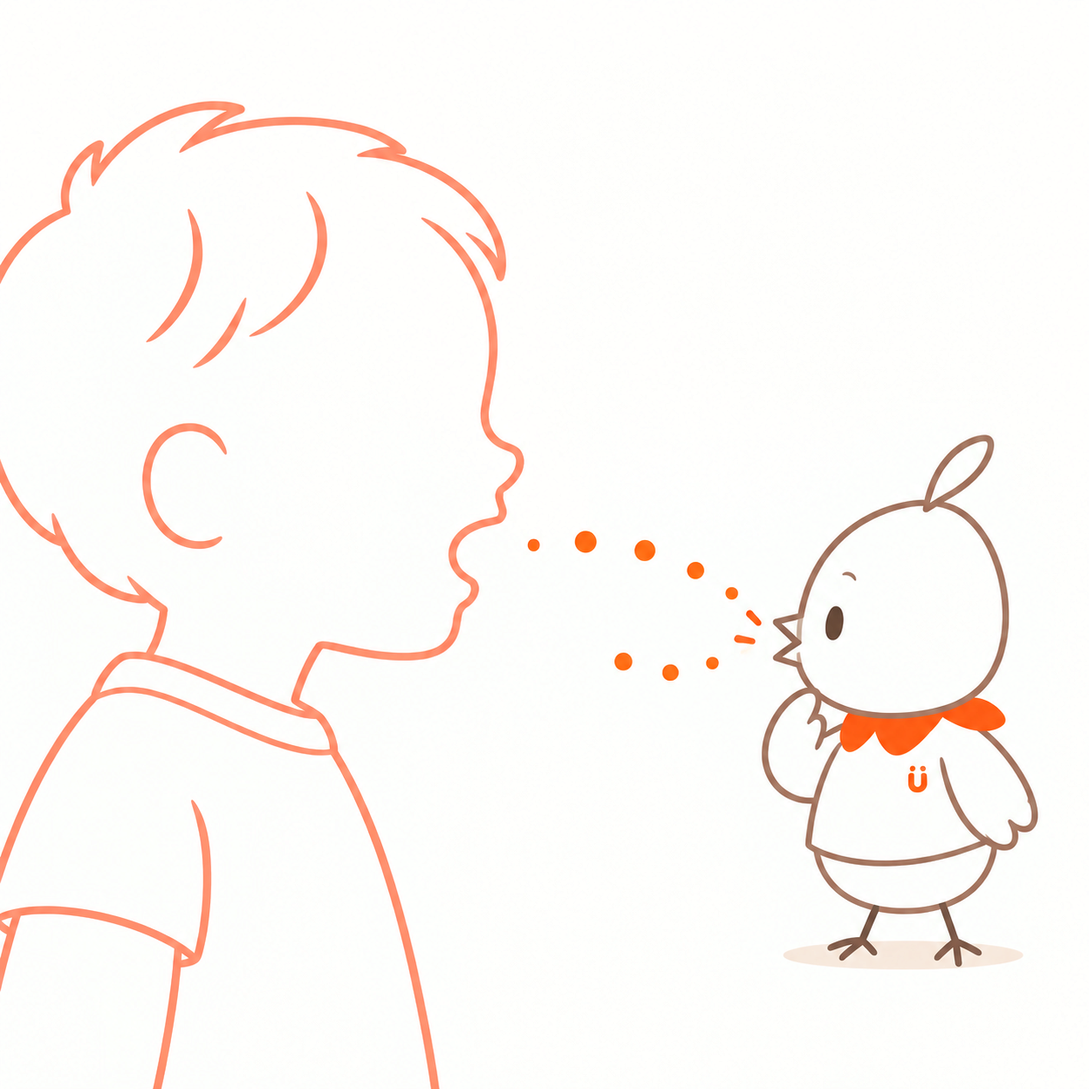
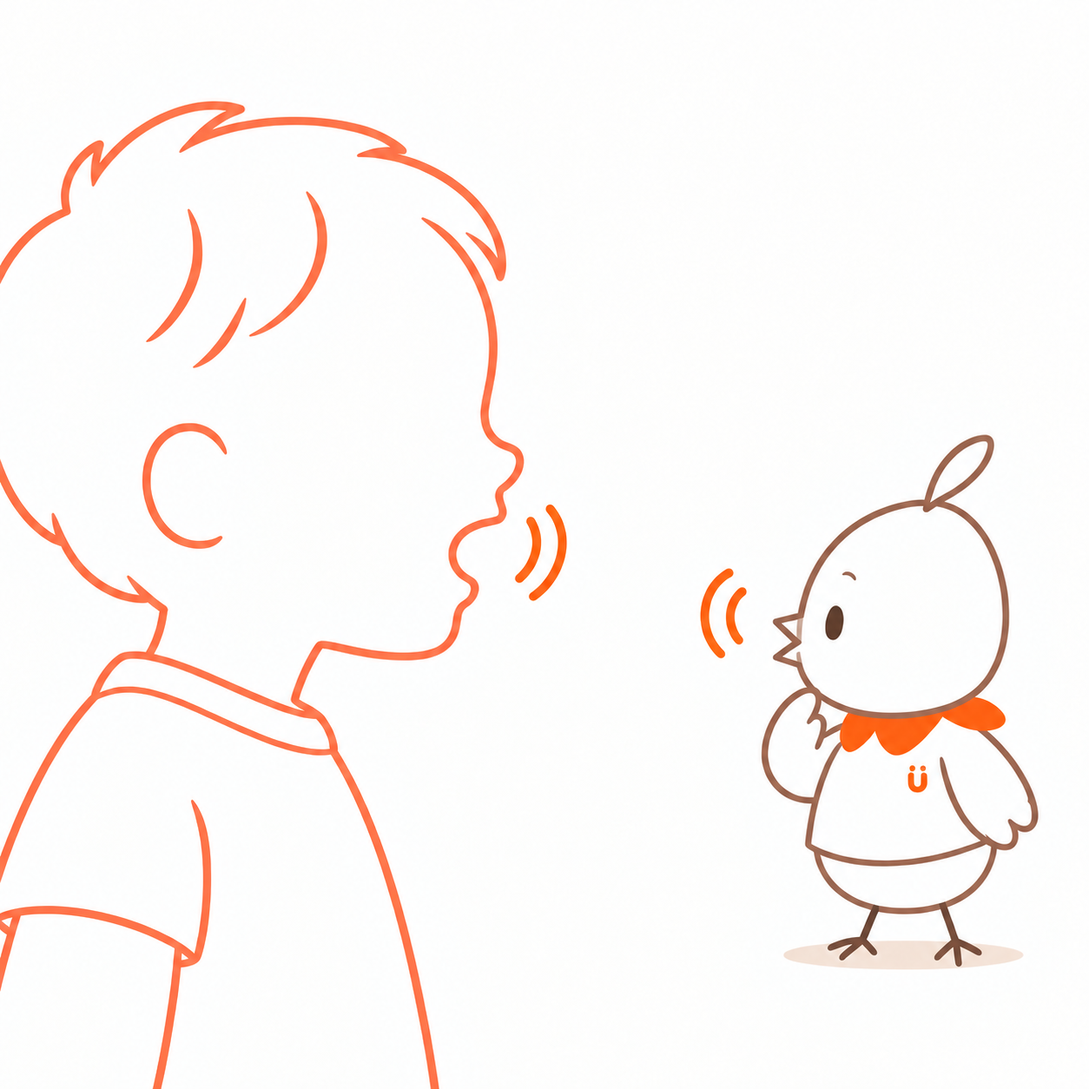
Refine Mimo and Luke story illustrations and growth frames

diff --git a/stories/hello-mimo/index.html b/stories/hello-mimo/index.html
@@ -1,7 +1,7 @@
 <!doctype html><html lang="ja"><head><meta charset="utf-8"><meta name="viewport" content="width=device-width,initial-scale=1"><meta name="theme-color" content="#fffdf9"><meta name="description" content="歌もおしゃべりも大好きなMimo。子どもの声や仕草に耳をすませ、ときには待ちすぎてしまう、自己紹介の絵本。"><title>こんにちは、ミモです。 | HugMap Stories</title><link rel="stylesheet" href="../../shared/base.css"><link rel="stylesheet" href="styles.css?3730cc56ad"><link rel="stylesheet" href="../intro-webtoon.css?7066c42a14"></head><body class="webtoon" data-buddy="mimo"><header class="story-header"><a class="brand" href="#cover">HugMap <span>Stories</span></a><button id="textToggle" aria-pressed="false">文字を大きく</button></header><nav class="progress" aria-label="物語の進み具合"><span id="progressLabel">はじまり</span><span class="track"><span id="progressFill"></span></span><span id="progressCount">0 / 10</span></nav><main><section class="panel cover" id="cover" data-step="0"><div class="copy"><p class="eyebrow">HUGMAP · はじめましての絵本</p><h1>こんにちは、<br><em>ミモ</em>です。</h1><p class="lead">きみのおはなし、<br>聞かせてね。</p><a class="start cover-arrow" href="#scene-1" aria-label="読みはじめる"><span aria-hidden="true">↓</span></a></div><figure><img id="coverMimo" src="assets/mimo-hello.png" alt="絵本を持ち、片翼を上げてあいさつするMimo" fetchpriority="high" width="1024" height="1536"></figure></section>
-<section class="panel scene rhythm-split tone-1 " id="scene-1" data-step="1"><div class="copy"><p class="eyebrow" aria-label="1ページ">01</p><h2>うたうの、だいすき。</h2><p class="story-text">おしゃべりも、すき。</p></div><figure><img src="assets/mimo-hello.png" alt="お気に入りの絵本を持ってあいさつするMimo" loading="lazy" width="1024" height="1536"></figure>
+<section class="panel scene rhythm-split tone-1 " id="scene-1" data-step="1"><div class="copy"><p class="eyebrow" aria-label="1ページ">01</p><h2>うたうの、だいすき。</h2><p class="story-text">おしゃべりも、すき。</p></div><figure><img src="assets/mimo-karaoke.png" alt="マイクを持ち、片翼でリズムを取りながら楽しそうに歌うMimo" loading="lazy" width="1024" height="1536"></figure>
 <div class="story-beat"><p class="story-text">でもね、<br>きみの おはなしが はじまると、<br>もっと 聞きたく なっちゃう。</p></div><a class="next" href="#scene-2" aria-label="次のページへ">↓</a></section>
-<section class="panel scene rhythm-after tone-2 reverse" id="scene-2" data-step="2"><div class="copy"><p class="eyebrow" aria-label="2ページ">02</p><h2>いろんな おはなし、<br>聞こえてくるよ。</h2><p class="story-text">きみが「あー」。<br>わたしも「あー」。</p></div><figure><img src="assets/mimo-voice-pingpong.png" alt="子どもとMimoの間を、声を表すオレンジの点が行き来する" loading="lazy" width="1254" height="1254"></figure><div class="story-beat"><p class="story-text">こんどは「うー」。<br>わたしも「うー」。<br><br>ふふ。声が いったり、きたり。</p></div>
+<section class="panel scene rhythm-after tone-2 reverse" id="scene-2" data-step="2"><div class="copy"><p class="eyebrow" aria-label="2ページ">02</p><h2>いろんな おはなし、<br>聞こえてくるよ。</h2><p class="story-text">きみが「あー」。<br>わたしも「あー」。</p></div><figure><img src="assets/mimo-voice-pingpong.png?c3a3745074" alt="子どもとMimoの口元の短い波線が、声を出してまねし合う様子を表す" loading="lazy" width="1254" height="1254"></figure><div class="story-beat"><p class="story-text">こんどは「うー」。<br>わたしも「うー」。<br><br>ふふ。声が いったり、きたり。</p></div>
 <a class="next" href="#scene-imitation" aria-label="次のページへ">↓</a></section>
 <section class="panel scene rhythm-split tone-0" id="scene-imitation" data-step="3"><div class="copy"><p class="eyebrow" aria-label="3ページ">03</p><h2>きみが ばんざい。<br>わたしも ばんざい。</h2><p class="story-text">その うごき、おもしろいね。<br>もういっかい、やってみよう。</p></div><figure><img src="assets/mimo-imitation-arms-up.png" alt="両手を上げる子どもを見て、ミモも両翼を上げてまねしている" loading="lazy" width="1254" height="1254"></figure>
 <div class="story-beat"><p class="story-text">ふふ。おんなじだね。</p></div><a class="next" href="#scene-3" aria-label="次のページへ">↓</a></section>
@@ -11,7 +11,7 @@
 <div class="story-beat"><p class="story-text">これが いいんだね。<br>いっしょに 読もう。</p></div><a class="next" href="#scene-5" aria-label="次のページへ">↓</a></section>
 <section class="panel scene rhythm-split tone-2 " id="scene-5" data-step="6"><div class="copy"><p class="eyebrow" aria-label="6ページ">06</p><h2>ページを ひらくと。</h2><p class="story-text">きみの ゆびが、ぴたっ。<br>ああ、そこに なにか いたんだね。</p></div><figure class="bubble-art bubble-art-5"><span class="speech-bubble curious" role="note" aria-label="ミモの声：どれ、どれ？">どれ、どれ？</span><img src="assets/mimo-shared-reading.png" alt="親子が開いた絵本を子どもが指し、隣のMimoも一緒に見ている" loading="lazy" width="1254" height="1254"></figure>
 <div class="story-beat"><p class="story-text">わたしも 見たくて、<br>つい、近づいちゃう。</p></div><a class="next" href="#scene-6" aria-label="次のページへ">↓</a></section>
-<section class="panel scene rhythm-split tone-0 reverse" id="scene-6" data-step="7"><div class="copy"><p class="eyebrow" aria-label="7ページ">07</p><h2>こんどは、<br>きみの おはなし。</h2><p class="story-text">写真も 見せてくれた。<br>「それで？」「そのあと？」</p></div><figure><img src="assets/mimo-experience-feeling.png" alt="子どもが写真を指し、気持ちのカードを持つ。保護者とMimoが一緒に見る" loading="lazy" width="1254" height="1254"></figure>
+<section class="panel scene rhythm-split tone-0 reverse" id="scene-6" data-step="7"><div class="copy"><p class="eyebrow" aria-label="7ページ">07</p><h2>こんどは、<br>きみの おはなし。</h2><p class="story-text">写真も 見せてくれた。<br>「それで？」「そのあと？」</p></div><figure><img src="assets/mimo-experience-feeling.png?11bd83ab9a" alt="子どもが写真を指し、気持ちのカードを持つ。保護者とMimoが一緒に見る" loading="lazy" width="1254" height="1254"></figure>
 <div class="story-beat"><p class="story-text">……おっと。<br>きみは、まだ 伝えている とちゅう。<br>わたしは、ちょっと 待とう。</p></div><a class="next" href="#scene-7" aria-label="次のページへ">↓</a></section>
 <section class="panel scene rhythm-pause tone-1 " id="scene-7" data-step="8"><div class="copy"><p class="eyebrow" aria-label="8ページ">08</p><h2>おはなしの あとは、<br>もういちど 絵本。</h2><p class="story-text">わたしは、のんびり 待っていた。<br>絵本は、まだ 閉じたまま。</p></div><figure class="bubble-art bubble-art-7"><span class="thought-bubble thought-first" role="note" aria-label="ミモの心の声：まだかな……">まだかな……</span><span class="thought-bubble thought-second" role="note" aria-label="ミモの心の声：もうすこし……">もうすこし……</span><img src="assets/mimo-wait-too-long.png" alt="閉じた絵本を脇に置いたまま、椅子で翼を重ねてのんびり待っているMimo" loading="lazy" width="1536" height="1024"></figure>
 <div class="story-beat"><p class="story-text">あれ？<br>きみも、待ってるの？</p></div><a class="next" href="#scene-8" aria-label="次のページへ">↓</a></section>
@@ -19,4 +19,4 @@
 <div class="copy"><p class="eyebrow" aria-label="9ページ">09</p><h2>ふふ。<br>待ちすぎちゃった。</h2><p class="story-text">わたしが 読むのを、<br>待っていて くれたんだね。<br><br>絵本を ひらいて――<br>では、はじまり はじまり。</p></div><a class="next" href="#scene-9" aria-label="次のページへ">↓</a></section>
 <section class="panel scene rhythm-after tone-0 " id="scene-9" data-step="10"><div class="copy"><p class="eyebrow" aria-label="10ページ">10</p><h2>わたしの おはなし、<br>聞いてくれて ありがとう。</h2></div><figure><img src="assets/mimo-shared-reading.png" alt="親子とMimoが一冊の絵本を囲んでいる" loading="lazy" width="1254" height="1254"></figure>
 <div class="story-beat"><p class="story-text">声でも、ゆびでも、しぐさでも。<br>きみの おはなし、<br>また 聞かせてね。</p></div><a class="next" href="#afterword" aria-label="次のページへ">↓</a></section>
-<section class="afterword" id="afterword" data-step="11"><p class="eyebrow">おはなしの あとに</p><h2>ことばになる前の「伝えたい」も、<br>いっしょに。</h2><p>Mimoは、子どもが大好き。声をまねしたり、同じものを見つけたり、一緒に笑ったり。そんなやりとりがうれしくて、もっと知りたくなります。声も、視線も、仕草も、その子の気持ちに出会う入り口です。</p><p>「いつ、お話ししてくれるかな」。待ち遠しくて、焦る日もあります。そんなときは、言えたことばだけでなく、こちらを見たこと、指で教えてくれたこと、一緒に楽しめたことにも目を向けてみませんか。ことばの育ちには、それぞれの時間があります。今日の小さなやりとりも、大切なひとときです。</p><p>Mimoは、ちょっとのんきに見えるかもしれません。でも、一緒に笑ったこと、声をかけ合ったこと、その一つひとつが、その子らしい「伝えたい」の芽を育むと信じています。小さな応答を見つけるたびに、うれしくなるMimo。「今日は、こんなお話ができたね」。そんな喜びを、子どもとも、おうちの人とも、分かち合っていきたいのです。</p><div class="end-links"><a class="start" href="#cover">もういちど読む ↑</a><a href="../mouikkai/index.html#cover">「もういっかい」のおはなしへ →</a><a href="../hello-gen/index.html#cover">ゲンの自己紹介へ →</a></div><p class="colophon">HugMap Stories · Mimoの自己紹介</p></section></main><script src="paper-cutout.js"></script><script src="story.js"></script></body></html>
+<section class="afterword" id="afterword" data-step="11"><p class="eyebrow">おはなしの あとに</p><h2>ことばになる前の「伝えたい」も、<br>いっしょに。</h2><p>Mimoは、子どもが大好き。声をまねしたり、同じものを見つけたり、一緒に笑ったり。そんなやりとりがうれしくて、もっと知りたくなります。声も、視線も、仕草も、その子の気持ちに出会う入り口です。</p><p>「いつ、お話ししてくれるかな」。待ち遠しくて、焦る日もあります。そんなときは、言えたことばだけでなく、こちらを見たこと、指で教えてくれたこと、一緒に楽しめたことにも目を向けてみませんか。ことばの育ちには、それぞれの時間があります。今日の小さなやりとりも、大切なひとときです。</p><p>Mimoは、ちょっとのんきに見えるかもしれません。でも、一緒に笑ったこと、声をかけ合ったこと、その一つひとつが、その子らしい「伝えたい」の芽を育むと信じています。小さな応答を見つけるたびに、うれしくなるMimo。「今日は、こんなお話ができたね」。そんな喜びを、子どもとも、おうちの人とも、分かち合っていきたいのです。</p><div class="end-links"><a class="start" href="#cover">もういちど読む ↑</a><a href="../mouikkai/index.html#cover">「もういっかい」のおはなしへ →</a><a href="../hello-gen/index.html#cover">ゲンの自己紹介へ →</a></div><p class="colophon">HugMap Stories · Mimoの自己紹介</p></section></main><script src="paper-cutout.js?ddc414cf6f"></script><script src="story.js"></script></body></html>

diff --git a/en/stories/hello-mimo/index.html b/en/stories/hello-mimo/index.html
@@ -1,7 +1,7 @@
 <!doctype html><html lang="en"><head><meta charset="utf-8"><meta name="viewport" content="width=device-width,initial-scale=1"><meta name="theme-color" content="#fffdf9"><meta name="description" content="Meet Mimo, who loves songs, conversation and listening to children—and sometimes waits a little too long."><title>Hello, I’m Mimo. | HugMap Stories</title><link rel="stylesheet" href="../../../shared/base.css"><link rel="stylesheet" href="../../../stories/hello-mimo/styles.css?3730cc56ad"><link rel="stylesheet" href="../intro-english.css"><link rel="stylesheet" href="../../../stories/intro-webtoon.css?7066c42a14"></head><body class="webtoon" data-buddy="mimo"><header class="story-header"><a class="brand" href="#cover">HugMap <span>Stories</span></a><a class="language-link" href="../../../stories/hello-mimo/index.html" lang="ja" aria-label="Read in Japanese">日本語</a><button id="textToggle" aria-pressed="false">Larger text</button></header><nav class="progress" aria-label="Story progress"><span id="progressLabel">Start</span><span class="track"><span id="progressFill"></span></span><span id="progressCount">0 / 10</span></nav><main><section class="panel cover" id="cover" data-step="0"><div class="copy"><p class="eyebrow">HUGMAP · MEET THE BUDDIES</p><h1>Hello,<br>I’m <em>Mimo</em>.</h1><p class="lead">I’d love to hear<br>what you have to say.</p><a class="start cover-arrow" href="#scene-1" aria-label="Start reading"><span aria-hidden="true">↓</span></a></div><figure><img id="coverMimo" src="../../../stories/hello-mimo/assets/mimo-hello.png" alt="Mimo waves hello while holding a picture book." fetchpriority="high" width="1024" height="1536"></figure></section>
-<section class="panel scene rhythm-split tone-1 " id="scene-1" data-step="1"><div class="copy"><p class="eyebrow" aria-label="Page 1">01</p><h2>I love a good song.</h2><p class="story-text">And a good chat, too.<br>But do you know what I love most?</p></div><figure><img src="../../../stories/hello-mimo/assets/mimo-hello.png" alt="Mimo greets us with a favourite picture book." loading="lazy" width="1024" height="1536"></figure>
+<section class="panel scene rhythm-split tone-1 " id="scene-1" data-step="1"><div class="copy"><p class="eyebrow" aria-label="Page 1">01</p><h2>I love a good song.</h2><p class="story-text">And a good chat, too.<br>But do you know what I love most?</p></div><figure><img src="../../../stories/hello-mimo/assets/mimo-karaoke.png" alt="Mimo sings happily into a microphone, keeping the beat with one wing." loading="lazy" width="1024" height="1536"></figure>
 <div class="story-beat"><p class="story-text">Listening to you.</p></div><a class="next" href="#scene-2" aria-label="Next page">↓</a></section>
-<section class="panel scene rhythm-after tone-2 reverse" id="scene-2" data-step="2"><div class="copy"><p class="eyebrow" aria-label="Page 2">02</p><h2>You say, “Ahh!”</h2><p class="story-text">“Ahh!” I say back.<br>Then you say, “Ooh!”<br>“Ooh!” I say.</p></div><figure><img src="../../../stories/hello-mimo/assets/mimo-voice-pingpong.png" alt="Orange dots carry sounds back and forth between Mimo and a child." loading="lazy" width="1254" height="1254"></figure><div class="story-beat"><p class="story-text">We’re having a little chat<br>of our own.</p></div>
+<section class="panel scene rhythm-after tone-2 reverse" id="scene-2" data-step="2"><div class="copy"><p class="eyebrow" aria-label="Page 2">02</p><h2>You say, “Ahh!”</h2><p class="story-text">“Ahh!” I say back.<br>Then you say, “Ooh!”<br>“Ooh!” I say.</p></div><figure><img src="../../../stories/hello-mimo/assets/mimo-voice-pingpong.png?c3a3745074" alt="Short curved sound waves beside the child’s mouth and Mimo’s beak show them taking turns making sounds." loading="lazy" width="1254" height="1254"></figure><div class="story-beat"><p class="story-text">We’re having a little chat<br>of our own.</p></div>
 <a class="next" href="#scene-imitation" aria-label="Next page">↓</a></section>
 <section class="panel scene rhythm-split tone-0" id="scene-imitation" data-step="3"><div class="copy"><p class="eyebrow" aria-label="Page 3">03</p><h2>Up go your arms.<br>Up go my wings!</h2><p class="story-text">I can do that too!<br>Shall we do it again?</p></div><figure><img src="../../../stories/hello-mimo/assets/mimo-imitation-arms-up.png" alt="Mimo raises both wings to copy a child raising both arms." loading="lazy" width="1254" height="1254"></figure>
 <div class="story-beat"><p class="story-text">There we go—together!</p></div><a class="next" href="#scene-3" aria-label="Next page">↓</a></section>
@@ -11,7 +11,7 @@
 <div class="story-beat"><p class="story-text">A story it is!<br>Let’s read it together.</p></div><a class="next" href="#scene-5" aria-label="Next page">↓</a></section>
 <section class="panel scene rhythm-split tone-2 " id="scene-5" data-step="6"><div class="copy"><p class="eyebrow" aria-label="Page 6">06</p><h2>Ooh, what’s on this page?</h2><p class="story-text">You point to something in the book.<br>I lean in for a closer look.</p></div><figure class="bubble-art bubble-art-5"><span class="speech-bubble curious" role="note" aria-label="Mimo says: What’s that?">What’s that?</span><img src="../../../stories/hello-mimo/assets/mimo-shared-reading.png" alt="A child points into an open book shared with a parent and Mimo." loading="lazy" width="1254" height="1254"></figure>
 <div class="story-beat"><p class="story-text">Now you’ve got me curious!</p></div><a class="next" href="#scene-6" aria-label="Next page">↓</a></section>
-<section class="panel scene rhythm-split tone-0 reverse" id="scene-6" data-step="7"><div class="copy"><p class="eyebrow" aria-label="Page 7">07</p><h2>You have a story, too.</h2><p class="story-text">You show me a photo.<br>I want to know all about it.<br>“And then?” I ask. “What happened next?”</p></div><figure><img src="../../../stories/hello-mimo/assets/mimo-experience-feeling.png" alt="A child shares a photo and a feelings card with a parent and Mimo." loading="lazy" width="1254" height="1254"></figure>
+<section class="panel scene rhythm-split tone-0 reverse" id="scene-6" data-step="7"><div class="copy"><p class="eyebrow" aria-label="Page 7">07</p><h2>You have a story, too.</h2><p class="story-text">You show me a photo.<br>I want to know all about it.<br>“And then?” I ask. “What happened next?”</p></div><figure><img src="../../../stories/hello-mimo/assets/mimo-experience-feeling.png?11bd83ab9a" alt="A child shares a photo and a feelings card with a parent and Mimo." loading="lazy" width="1254" height="1254"></figure>
 <div class="story-beat"><p class="story-text">Oops, you weren’t finished.<br>Take your time. I’m listening.</p></div><a class="next" href="#scene-7" aria-label="Next page">↓</a></section>
 <section class="panel scene rhythm-pause tone-1 " id="scene-7" data-step="8"><div class="copy"><p class="eyebrow" aria-label="Page 8">08</p><h2>Shall we read some more?</h2><p class="story-text">I settle into my chair.<br>And wait.<br>And wait.<br>The book is still closed.</p></div><figure class="bubble-art bubble-art-7"><span class="thought-bubble thought-first" role="note" aria-label="Mimo thinks: Any moment now…">Any moment now…</span><span class="thought-bubble thought-second" role="note" aria-label="Mimo thinks: No hurry…">No hurry…</span><img src="../../../stories/hello-mimo/assets/mimo-wait-too-long.png" alt="Mimo waits in a chair with wings folded and a closed book beside her." loading="lazy" width="1536" height="1024"></figure><div class="story-beat"><p class="story-text">Hmm…<br>Are you waiting too?</p></div>
 <a class="next" href="#scene-8" aria-label="Next page">↓</a></section>
@@ -19,4 +19,4 @@
 <div class="copy"><p class="eyebrow" aria-label="Page 9">09</p><h2>Oh! You’re waiting<br>for me!</h2><p class="story-text">There I was, waiting for you,<br>when it was my turn all along.<br><br>I open the book and begin.<br>“Once upon a time…”</p></div><a class="next" href="#scene-9" aria-label="Next page">↓</a></section>
 <section class="panel scene rhythm-after tone-0 " id="scene-9" data-step="10"><div class="copy"><p class="eyebrow" aria-label="Page 10">10</p><h2>Thanks for listening!</h2></div><figure><img src="../../../stories/hello-mimo/assets/mimo-shared-reading.png" alt="Mimo, a child and a parent gather around a picture book." loading="lazy" width="1254" height="1254"></figure>
 <div class="story-beat"><p class="story-text">A sound, a look, a little wave…<br>You don’t have to use words.<br><br>Whatever you want to share,<br>I’m here to listen.</p></div><a class="next" href="#afterword" aria-label="Next page">↓</a></section>
-<section class="afterword" id="afterword" data-step="11"><p class="eyebrow">A note for grown-ups</p><h2>Little moments.<br>So much to share.</h2><p>Mimo loves being with children: copying their sounds, following a pointing finger and sharing a laugh. She is curious about what each child has to say, whether they use words, sounds or gestures.</p><p>If you’re wondering when your child will start talking, the wait can feel long. It can help to notice the conversations already happening: a glance your way, a finger pointing something out, a laugh you share. Those moments are worth enjoying in their own right.</p><p>Mimo can be so relaxed that she forgets it’s her turn. But beneath that easygoing manner is a quiet belief in the value of connecting, a little at a time. Every small response gives her something to smile about—and something to celebrate with you.</p><div class="end-links"><a class="start" href="#cover">Read again ↑</a><a href="../hello-luke/index.html#cover">Meet Luke →</a><a href="../hello-gen/index.html#cover">Meet Gen →</a></div><p class="colophon">HugMap Stories · Meet Mimo</p></section></main><script src="../../../stories/hello-mimo/paper-cutout.js"></script><script src="../intro-story.js"></script></body></html>
+<section class="afterword" id="afterword" data-step="11"><p class="eyebrow">A note for grown-ups</p><h2>Little moments.<br>So much to share.</h2><p>Mimo loves being with children: copying their sounds, following a pointing finger and sharing a laugh. She is curious about what each child has to say, whether they use words, sounds or gestures.</p><p>If you’re wondering when your child will start talking, the wait can feel long. It can help to notice the conversations already happening: a glance your way, a finger pointing something out, a laugh you share. Those moments are worth enjoying in their own right.</p><p>Mimo can be so relaxed that she forgets it’s her turn. But beneath that easygoing manner is a quiet belief in the value of connecting, a little at a time. Every small response gives her something to smile about—and something to celebrate with you.</p><div class="end-links"><a class="start" href="#cover">Read again ↑</a><a href="../hello-luke/index.html#cover">Meet Luke →</a><a href="../hello-gen/index.html#cover">Meet Gen →</a></div><p class="colophon">HugMap Stories · Meet Mimo</p></section></main><script src="../../../stories/hello-mimo/paper-cutout.js?ddc414cf6f"></script><script src="../intro-story.js"></script></body></html>

diff --git a/stories/hello-luke/index.html b/stories/hello-luke/index.html
@@ -2,7 +2,7 @@
 <html lang="ja"><head><meta charset="utf-8"><meta name="viewport" content="width=device-width,initial-scale=1"><meta name="theme-color" content="#fffdf9"><meta name="description" content="考えるのも、試すのも大好きなLuke。子どもの手元を観察し、道具を試し、ときには夢中になりすぎて考え直す、自己紹介の絵本。"><title>こんにちは、ルークです。 | HugMap Stories</title><link rel="stylesheet" href="styles.css?theme=soft-paper"><link rel="stylesheet" href="../intro-webtoon.css?7066c42a14"></head>
 <body class="webtoon" data-buddy="luke"><header class="story-header"><a class="brand" href="#cover">HugMap <span>Stories</span></a><button id="textToggle" type="button" aria-pressed="false">文字を大きく</button></header><nav class="progress" aria-label="物語の進み具合"><span id="progressLabel">はじまり</span><span class="track"><span id="progressFill"></span></span><span id="progressCount">0 / 10</span></nav><main>
 <section class="panel cover" id="cover" data-step="0"><div class="copy"><p class="eyebrow">HUGMAP · はじめましての絵本</p><h1>こんにちは、<br><em>ルーク</em>です。</h1><p class="lead">どうしたら、やりやすいかな。<br>いっしょに 考えよう。</p><a class="start cover-arrow" href="#scene-hello" aria-label="読みはじめる"><span aria-hidden="true">↓</span></a></div><figure><img data-paper-wash data-paper-clean data-paper-edge=".001" src="assets/luke-hello.png" alt="積み木を持ち、眼鏡に手を添えて考えるLuke" width="1024" height="1536" fetchpriority="high"></figure></section>
-<section class="panel scene " id="scene-hello" data-step="1"><div class="copy"><p class="eyebrow" aria-label="1ページ">01</p><h2>なにを つくろうかな。</h2><p class="story-text">ひとつ のせて、もうひとつ。<br>つくるのも、ためすのも、だいすき。</p></div><figure class="bubble-art"><span class="bubble thought" role="note" aria-label="ルークの心の声：こんどは、どうしよう。">こんどは、<br>どうしよう。</span><img data-paper-wash data-paper-clean data-paper-edge=".001" src="assets/luke-hello.png" alt="眼鏡に手を添え、積み木を持って首をかしげるLuke" width="1024" height="1536" loading="lazy"></figure><a class="next" href="#scene-eat-myself" aria-label="次のページへ">↓</a></section>
+<section class="panel scene " id="scene-hello" data-step="1"><div class="copy"><p class="eyebrow" aria-label="1ページ">01</p><h2>なにを つくろうかな。</h2><p class="story-text">ひとつ のせて、もうひとつ。<br>つくるのも、ためすのも、だいすき。</p></div><figure class="bubble-art"><span class="bubble thought" role="note" aria-label="ルークの心の声：こんどは、どうしよう。">こんどは、<br>どうしよう。</span><img src="assets/luke-building-blocks.png" alt="床に座り、積み木の橋を支えながら上にひとつ積むLuke" width="1254" height="1254" loading="lazy"></figure><a class="next" href="#scene-eat-myself" aria-label="次のページへ">↓</a></section>
 <section class="panel scene rhythm-split reverse" id="scene-eat-myself" data-step="2"><div class="copy"><p class="eyebrow" aria-label="2ページ">02</p><h2>じぶんで、食べたい。</h2><p class="story-text">きみが、スプーンを 手にとった。<br>すくおうとすると、お皿が すーっ。</p></div><figure class="bubble-art"><span class="bubble thought" role="note" aria-label="ルークの心の声：どこがむずかしいかな。">どこが<br>むずかしいかな。</span><img data-paper-wash data-paper-clean data-paper-edge=".06" src="assets/luke-meal-slide.png" alt="スプーンですくおうとすると皿が動き、Lukeが皿の下を観察する" width="1254" height="1254" loading="lazy"></figure>
 <div class="story-beat"><p class="story-text">もういちど。……また、すーっ。<br>きみの 手が、とまった。</p></div><a class="next" href="#scene-grip" aria-label="次のページへ">↓</a></section>
 <section class="panel scene " id="scene-grip" data-step="3"><div class="copy"><p class="eyebrow" aria-label="3ページ">03</p><h2>その手、<br>よーく 見せてね。</h2><p class="story-text">きみが、もういちど<br>スプーンを ぎゅっ。<br>ぼくは、その手を 目で追う。</p></div><figure class="bubble-art observation-art"><div class="observation-thoughts"><span class="bubble thought" role="note" aria-label="ルークの心の声：ゆびは、どこに添えているかな。">ゆびは、どこに<br>添えているかな。</span><span class="bubble thought" role="note" aria-label="ルークの心の声：持ち続けて、疲れないかな。">持ち続けて、<br>疲れないかな。</span></div><img data-paper-wash data-paper-clean data-paper-edge=".06" src="assets/luke-meal-grip.png" alt="Lukeが子どものスプーンを握る手を観察する。拡大図で手のひらと指、手首の様子が見える" width="1254" height="1254" loading="lazy"></figure><a class="next" href="#scene-observe" aria-label="次のページへ">↓</a></section>

diff --git a/en/stories/hello-luke/index.html b/en/stories/hello-luke/index.html
@@ -2,7 +2,7 @@
 <html lang="en"><head><meta charset="utf-8"><meta name="viewport" content="width=device-width,initial-scale=1"><meta name="theme-color" content="#fffdf9"><meta name="description" content="Meet Luke, a curious inventor who watches, adapts tools and tries again to help children do things for themselves."><title>Hello, I’m Luke. | HugMap Stories</title><link rel="stylesheet" href="../../../stories/hello-luke/styles.css?theme=soft-paper"><link rel="stylesheet" href="../intro-english.css"><link rel="stylesheet" href="../../../stories/intro-webtoon.css?7066c42a14"></head>
 <body class="webtoon" data-buddy="luke"><header class="story-header"><a class="brand" href="#cover">HugMap <span>Stories</span></a><a class="language-link" href="../../../stories/hello-luke/index.html" lang="ja" aria-label="Read in Japanese">日本語</a><button id="textToggle" type="button" aria-pressed="false">Larger text</button></header><nav class="progress" aria-label="Story progress"><span id="progressLabel">Start</span><span class="track"><span id="progressFill"></span></span><span id="progressCount">0 / 10</span></nav><main>
 <section class="panel cover" id="cover" data-step="0"><div class="copy"><p class="eyebrow">HUGMAP · MEET THE BUDDIES</p><h1>Hello,<br>I’m <em>Luke</em>.</h1><p class="lead">A little change might help.<br>Let’s try it together.</p><a class="start cover-arrow" href="#scene-hello" aria-label="Start reading"><span aria-hidden="true">↓</span></a></div><figure><img data-paper-wash data-paper-clean data-paper-edge=".001" src="../../../stories/hello-luke/assets/luke-hello.png" alt="Luke holds a block and touches his glasses." width="1024" height="1536" fetchpriority="high"></figure></section>
-<section class="panel scene " id="scene-hello" data-step="1"><div class="copy"><p class="eyebrow" aria-label="Page 1">01</p><h2>I wonder what I could make…</h2><p class="story-text">One block on top of another.<br>Hmm. What if I put this one here?<br><br>I love building things<br>and trying out ideas.</p></div><figure class="bubble-art"><span class="bubble thought" role="note" aria-label="Luke thinks: What next?">What next?</span><img data-paper-wash data-paper-clean data-paper-edge=".001" src="../../../stories/hello-luke/assets/luke-hello.png" alt="Luke holds a block and touches his glasses, thinking." width="1024" height="1536" loading="lazy"></figure><a class="next" href="#scene-eat-myself" aria-label="Next page">↓</a></section>
+<section class="panel scene " id="scene-hello" data-step="1"><div class="copy"><p class="eyebrow" aria-label="Page 1">01</p><h2>I wonder what I could make…</h2><p class="story-text">One block on top of another.<br>Hmm. What if I put this one here?<br><br>I love building things<br>and trying out ideas.</p></div><figure class="bubble-art"><span class="bubble thought" role="note" aria-label="Luke thinks: What next?">What next?</span><img src="../../../stories/hello-luke/assets/luke-building-blocks.png" alt="Luke sits beside wooden blocks, carefully placing a cube on a small bridge." width="1254" height="1254" loading="lazy"></figure><a class="next" href="#scene-eat-myself" aria-label="Next page">↓</a></section>
 <section class="panel scene rhythm-split reverse" id="scene-eat-myself" data-step="2"><div class="copy"><p class="eyebrow" aria-label="Page 2">02</p><h2>You reach for the spoon.</h2><p class="story-text">You try to scoop up a bite.<br>But the plate slides away.</p></div><figure class="bubble-art"><span class="bubble thought" role="note" aria-label="Luke thinks: What could make this easier?">What could make<br>this easier?</span><img data-paper-wash data-paper-clean data-paper-edge=".06" src="../../../stories/hello-luke/assets/luke-meal-slide.png" alt="Luke watches the plate slide as a child tries to scoop with a spoon." width="1254" height="1254" loading="lazy"></figure><div class="story-beat"><p class="story-text">You try again.<br>There it goes—again!<br><br>I lean in for a closer look.</p></div>
 <a class="next" href="#scene-grip" aria-label="Next page">↓</a></section>
 <section class="panel scene " id="scene-grip" data-step="3"><div class="copy"><p class="eyebrow" aria-label="Page 3">03</p><h2>I watch your hand.</h2><p class="story-text">As you try again,<br>I watch how you hold the spoon<br>and move it across the plate.</p></div><figure class="bubble-art observation-art"><div class="observation-thoughts"><span class="bubble thought" role="note" aria-label="Luke thinks: How are you holding the spoon?">How are you holding<br>the spoon?</span><span class="bubble thought" role="note" aria-label="Luke thinks: Is your hand getting tired?">Is your hand<br>getting tired?</span></div><img data-paper-wash data-paper-clean data-paper-edge=".06" src="../../../stories/hello-luke/assets/luke-meal-grip.png" alt="Luke observes the child’s grip. A close-up shows the palm, fingers and wrist." width="1254" height="1254" loading="lazy"></figure><a class="next" href="#scene-observe" aria-label="Next page">↓</a></section>

diff --git a/stories/hello-mimo/paper-cutout.js b/stories/hello-mimo/paper-cutout.js
@@ -12,19 +12,31 @@ for (const img of document.querySelectorAll('.panel figure img')) {
     const frame = ctx.getImageData(0, 0, canvas.width, canvas.height);
     const {data} = frame;
     const w = canvas.width, h = canvas.height;
+    const croppedChild = img.src.includes('mimo-voice-pingpong');
+    const childEdge = new Int32Array(h).fill(-1);
+    if (croppedChild) {
+      for(let y=Math.floor(h*.24);y<h;y++) {
+        for(let x=0;x<Math.floor(w*.49);x++) {
+          const i=(y*w+x)*4;
+          if(data[i]>180 && data[i]-data[i+1]>45 && data[i+1]-data[i+2]>10) childEdge[y]=x;
+        }
+      }
+    }
     const seen = new Uint8Array(w*h);
     const queue = new Int32Array(w*h);
     let head = 0, tail = 0;
     const visit = (p) => {
-      if (seen[p]) return;
+      if (seen[p] || (croppedChild && p%w<=childEdge[Math.floor(p/w)])) return;
       seen[p] = 1;
       const i = p*4;
       const lo = Math.min(data[i],data[i+1],data[i+2]);
       const hi = Math.max(data[i],data[i+1],data[i+2]);
       if (data[i+3] < 8 || (lo > 224 && hi-lo < 24)) queue[tail++] = p;
     };
-    for (let x=0;x<w;x++) {visit(x);visit((h-1)*w+x);}
-    for (let y=0;y<h;y++) {visit(y*w);visit(y*w+w-1);}
+    // The close-up child is cropped at the left and lower edges.
+    // Those edges are inside the silhouette, not exterior paper.
+    for (let x=0;x<w;x++) {visit(x);if (!croppedChild || x>w*.5) visit((h-1)*w+x);}
+    for (let y=0;y<h;y++) {if (!croppedChild) visit(y*w);visit(y*w+w-1);}
     while (head < tail) {
       const p = queue[head++];
       data[p*4+3] = 0;
